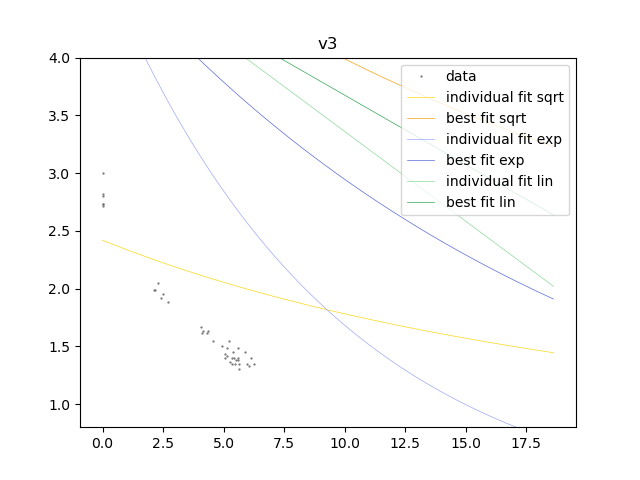
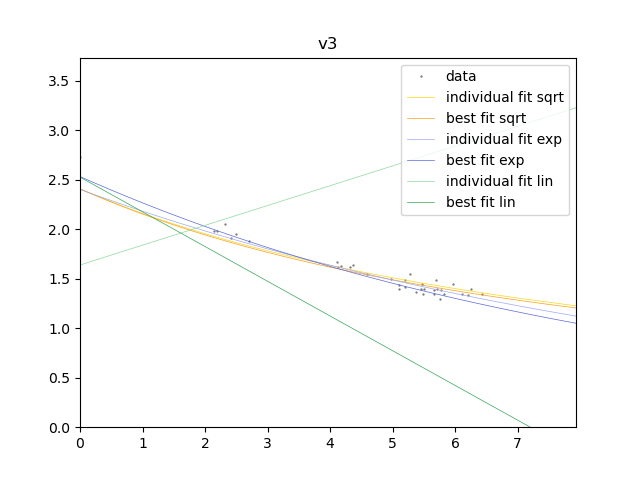
1.3 - fixed plots

diff --git a/main.py b/main.py
@@ -210,7 +210,7 @@ def fitting(data_series, ed_mode_func="exact", ed_estimate_func=40):
     # cumulative frozen time and cumulative unfrozen time are considered as separate variables
     if ed_mode_func == "exact":
         # exact means determined from data
-        element_durability = 2 * data_series.loc[:, "ed_estimate"]
+        element_durability = data_series.loc[:, "ed_estimate"]
     else:
         # estimate means given through knowledge about game (e.g. ed of rain)
         element_durability = ed_estimate_func
@@ -229,7 +229,8 @@ def fitting(data_series, ed_mode_func="exact", ed_estimate_func=40):
     data_y = data_series.loc[:, 't_frozen'].to_numpy()
     data_x = np.transpose(data_series.loc[:, 't_frozen_cumulative':'t_unfrozen_cumulative'].to_numpy())
     # fit to sqrt curve
-    p_sqrt_temp = curve_fit(temp_func_sqrt, data_x, data_y, p0=(-2, 4), bounds=([-5, 0.5], [-0.001, 20]))
+    p_sqrt_temp = curve_fit(temp_func_sqrt, data_x, data_y, p0=(-2, 4))
+    # bounds=([-5, 2.0], [-0.001, 15])
     parameters_sqrt_temp = p_sqrt_temp[0]
     var_sqrt_temp = np.diag(p_sqrt_temp[1])
     # fit to exp curve
@@ -258,7 +259,7 @@ for j in range(0, freeze_data_phaZ_raw.shape[0]):
     freeze_data_phaZ_raw.loc[j, "unfreeze time [s]"] = freeze_data_phaZ_raw.loc[j, "unfreeze time [s]"] / 60
 
 # do calculations
-filter_cutoff = 4.5
+filter_cutoff = 7
 
 freeze_data_ellimiku = freeze_time_calcs_from_raw(freeze_data_ellimiku_raw, array_mode="sequential", ed_mode="estimate",
                                                   element_durability=50)
@@ -274,18 +275,20 @@ freeze_data_v1_raw = pd.read_csv("Genshin_Freeze_Extension_v1.csv", header=1, sk
 freeze_data_v3_raw = pd.read_csv("Genshin_Freeze_Extension_v3.csv", header=1, skiprows=1, usecols=[0, 1])
 
 freeze_data_dfs = []
-ed_estimate = np.array([50, 50, 40, 80, 40, 50])
-ed_modes = ["estimate", "estimate", "exact", "exact", "estimate"]
+ed_estimate = np.array([50, 112.5, 40, 40, 50, 50, 50])
+ed_modes = ["estimate", "estimate", "exact", "exact", "estimate", "estimate"]
 
 j = 1
-number = 5
+number = 6
 for raw_data in (freeze_data_v1_raw, freeze_data_v3_raw):
     for k in range(0, raw_data.shape[0]):
         raw_data.iloc[k, 0] = timestamp_to_float(raw_data.iloc[k, 0])
     result = freeze_time_calcs_from_raw(raw_data, array_mode="alternating", ed_mode=ed_modes[j + 1])
-    freeze_data_dfs.append(result)
+    result_filtered = result[result['t_unfrozen_cumulative'] < filter_cutoff]
+    freeze_data_dfs.append(result_filtered)
     j += 1
 
+# isu data need some processing before I can do calcs with them - a bit messy here
 freeze_data_isu_raw = pd.read_csv("Freeze_extensions_isu.csv", header=1, skiprows=10, usecols=[2, 3, 4, 5])
 freeze_data_isu_raw_numpy = freeze_data_isu_raw.iloc[0:10, :].to_numpy()  # for reshaping in the next line
 freeze_data_isu_raw_numpy = np.reshape(freeze_data_isu_raw_numpy, (20, 2))  # get data in the "sequential" format
@@ -307,6 +310,16 @@ for i in range(0, 10):
                                               element_durability=50)
     freeze_data_isu.iloc[index:index + 2, :] = partial_data
 
+# aloy data recorded by phaZ
+freeze_data_aloy_raw = pd.read_csv("freeze_extension_aloy.csv", skiprows=1, usecols=[3, 4], nrows=76)
+freeze_data_aloy_raw.columns = ("freeze start time [s]", "unfreeze time [s]")
+for j in range(0, freeze_data_aloy_raw.shape[0]):
+    freeze_data_aloy_raw.loc[j, "freeze start time [s]"] = freeze_data_aloy_raw.loc[j, "freeze start time [s]"] / 60
+    freeze_data_aloy_raw.loc[j, "unfreeze time [s]"] = freeze_data_aloy_raw.loc[j, "unfreeze time [s]"] / 60
+
+freeze_data_aloy = freeze_time_calcs_from_raw(freeze_data_aloy_raw, array_mode="sequential", ed_mode="estimate",
+                                               element_durability=50)
+freeze_data_aloy_filtered = freeze_data_aloy[freeze_data_aloy['t_unfrozen_cumulative'] < filter_cutoff]
 
 ### fitting ###
 
@@ -318,8 +331,8 @@ parameters_lin = []
 var_lin = []
 
 j = 0
-labels = ("ellimiku", "phaZ", "v1", "v3", "isu")
-for series in (freeze_data_ellimiku_filtered, freeze_data_phaZ, *freeze_data_dfs, freeze_data_isu):
+labels = ("ellimiku", "phaZ - swirl", "v1", "v3", "isu", "phaZ - aloy")
+for series in (freeze_data_ellimiku_filtered, freeze_data_phaZ, *freeze_data_dfs, freeze_data_isu, freeze_data_aloy):
     fit_results = fitting(series, ed_mode_func=ed_modes[j], ed_estimate_func=ed_estimate[j])
     # [i][k]   i = 0 corresponds to sqrt
     #          i = 1 corresponds to exp
@@ -382,8 +395,10 @@ x_for_calcs = []
 array_params_t_decay = []
 array_vars_decay = []
 j = 0
-for data_series in (freeze_data_ellimiku_filtered, freeze_data_phaZ, *freeze_data_dfs, freeze_data_isu):
-    t_frozen_max = data_series.max().loc["t_frozen_cumulative"]
+for data_series in (freeze_data_ellimiku_filtered, freeze_data_phaZ, *freeze_data_dfs, freeze_data_isu,
+                    freeze_data_aloy):
+
+    t_frozen_max = 2 * data_series.max().loc["t_frozen_cumulative"]  # twice the max so we have large enough t_decay
     # find way to combine variables 't_frozen_cumulative' and 't_unfrozen cumulative' into one ('t_decay')
     # linregress of actual data
     params_lin_t_decay = linregress(data_series.loc[:, 't_frozen_cumulative'],
@@ -397,8 +412,8 @@ for data_series in (freeze_data_ellimiku_filtered, freeze_data_phaZ, *freeze_dat
     t_unfrozen.append(np.linspace(t_unfrozen_min, t_unfrozen_max, 100))
     # t_decay = t_frozen_cumulative + a * t_unfrozen_cumulative
     factor_a = parameters_sqrt[j][0]
-    t_decay_plot.append(np.linspace(0, t_frozen_max - factor_a * t_unfrozen_max, 100))
-    x_for_calcs.append(np.array([t_frozen, t_unfrozen]))
+    t_decay_plot.append(np.linspace(0, t_frozen_max + factor_a * t_unfrozen_max, 100))
+    x_for_calcs.append(np.array([t_frozen[-1], t_unfrozen[-1]]))
     j += 1
 
 y_ranges_fit_sqrt = []
@@ -409,28 +424,30 @@ y_ranges_fit_lin = []
 y_ranges_best_fit_lin = []
 
 for i in range(0, number):
+    # generate points to plot the functions
     y_ranges_fit_sqrt.append(sqrt_formula_for_optimization(x_for_calcs[i], *parameters_sqrt[i],
-                                                           d_frozen=ed_estimate[i])[0])
+                                                           d_frozen=ed_estimate[i]))
     y_ranges_best_fit_sqrt.append(sqrt_formula_for_optimization(x_for_calcs[i], *best_parameters_sqrt,
-                                                                d_frozen=ed_estimate[i])[0])
+                                                                d_frozen=ed_estimate[i]))
     y_ranges_fit_exp.append(exp_formula_for_optimization(x_for_calcs[i], *parameters_exp[i],
-                                                         d_frozen=ed_estimate[i])[0])
+                                                         d_frozen=ed_estimate[i]))
     y_ranges_best_fit_exp.append(exp_formula_for_optimization(x_for_calcs[i], *best_parameters_exp,
-                                                              d_frozen=ed_estimate[i])[0])
+                                                              d_frozen=ed_estimate[i]))
     y_ranges_fit_lin.append(lin_function_for_optimization(x_for_calcs[i], *parameters_lin[i],
-                                                          d_frozen=ed_estimate[i])[0])
+                                                          d_frozen=ed_estimate[i]))
     y_ranges_best_fit_lin.append(lin_function_for_optimization(x_for_calcs[i], *best_parameters_lin,
-                                                               d_frozen=ed_estimate[i])[0])
+                                                               d_frozen=ed_estimate[i]))
 
 # weighted avg for t_unfrozen_cumulative as a fcn of t_frozen_cumulative (ONLY for plotting)
-weights_t_unfrozen_cum = np.array([1 / array_vars_decay[j] for j in range(0, number)])
-slope_for_plot = np.average(np.array(array_params_t_decay[i]), axis=0, weights=weights_t_unfrozen_cum[i])
-
-# generate lines corresponding to original formula
-t_frozen_best = np.linspace(0, 100, 200)
-t_unfrozen_best = np.linspace(0, slope_for_plot * 100, 200)
+weights_t_unfrozen_slope = np.array([1 / array_vars_decay[j][0] for j in range(0, number)])
+# weights_t_unfrozen_intercept = np.array([1 / array_vars_decay[j] for j in range(0, number)])
+slopes = np.array([array_params_t_decay[i][1] for i in range(0, number)])
+slope_for_plot = np.average(slopes, axis=0, weights=weights_t_unfrozen_slope)
+# generate lines corresponding to formula
+t_frozen_best = np.linspace(0, 50, 100)
+t_unfrozen_best = np.linspace(0, slope_for_plot * 50, 100)
 a_plots = best_parameters_sqrt[0]
-x_range = t_unfrozen_best - a_plots * t_unfrozen_best
+x_range = t_frozen_best + a_plots * t_unfrozen_best
 # y_range = freeze_formula(x_range)  # y coordinate aka freeze time
 # y_range_aura = freeze_formula(x_range, d_frozen=40)  # with aura tax taken into account
 # y_range_2b_aura = freeze_formula(x_range, d_frozen=80)  # and with 2B and aura tax
@@ -439,8 +456,10 @@ y_range_sqrt_1A = sqrt_formula_for_optimization(np.array([t_frozen_best, t_unfro
 
 y_range_sqrt_1A_aura = sqrt_formula_for_optimization(np.array([t_frozen_best, t_unfrozen_best]), *best_parameters_sqrt,
                                                      d_frozen=40)
-# y_range_sqrt_2B_aura = sqrt_formula_for_optimization(np.array([t_frozen_best, t_unfrozen_best]), *best_parameters_sqrt,
-#                                                      d_frozen=80)
+y_range_sqrt_2B_aura = sqrt_formula_for_optimization(np.array([t_frozen_best, t_unfrozen_best]), *best_parameters_sqrt,
+                                                     d_frozen=80)
+y_range_sqrt_swirl_aura = sqrt_formula_for_optimization(np.array([t_frozen_best, t_unfrozen_best]),
+                                                        *best_parameters_sqrt, d_frozen=112.4)
 y_range_exp_1A = exp_formula_for_optimization(np.array([t_frozen_best, t_unfrozen_best]), *best_parameters_exp,
                                               d_frozen=50)
 y_range_exp_1A_aura = exp_formula_for_optimization(np.array([t_frozen_best, t_unfrozen_best]), *best_parameters_exp,
@@ -453,53 +472,65 @@ y_range_lin_1A_aura = lin_function_for_optimization(np.array([t_frozen_best, t_u
 
 ### Plots ###
 aura_arr = ["1A", "1A"]
-colors_arr = ["#A344A0", "#1AABC8", "#707070", "#000000", "#D1A2D0"]  # "#883EFF"
-fig, ax = plt.subplots(1, 1)
-ax.set_ylim((1, 5))
-ax.set_xlim((-0.1, 10.5))
-# ax.plot(x_range, y_range, label="Formula for 1A hydro", color="#707070", linewidth=1)
-# ax.plot(x_range, y_range_aura, label="Formula for 1A hydro with aura tax", color="#000000", linewidth=1)
-ax.plot(x_range, y_range_sqrt_1A_aura, label="Sqrt formula fit - 1A with aura tax", color="#FA9F16", linewidth=0.5)
-ax.plot(x_range, y_range_sqrt_1A, label="Sqrt formula fit - 1A w/o aura tax", color="#E4421E", linewidth=0.5)
-#ax.plot(x_range, y_range_exp_1A_aura, label="Exp formula fit - 1A with aura tax", color="#5968DA", linewidth=0.5)
-ax.plot(x_range, y_range_exp_1A, label="Exp formula fit - 1A w/o aura tax", color="#202C8A", linewidth=0.5)
-#ax.plot(x_range, y_range_lin_1A_aura, label="Linear formula fit - 1A with aura tax", color="#34A656", linewidth=0.5)
-ax.plot(x_range, y_range_lin_1A, label="Linear formula fit - 1A w/o aura tax", color="#27732D", linewidth=0.5)
+colors_arr = ["#4424D3", "#2CC259", "#707070", "#000000", "#2A96AB", "#C55EC3"]
+fig1, ax1 = plt.subplots(1, 1)
+fig2, ax2 = plt.subplots(1, 1)
+
+# plot functions
+# ax1
+ax1.plot(x_range, y_range_sqrt_1A, label="Sqrt formula fit - 1A w/o aura tax", color="#EF711A", linewidth=0.5)
+ax1.plot(x_range, y_range_exp_1A, label="Exp formula fit - 1A w/o aura tax", color="#202C8A", linewidth=0.5)
+ax1.plot(x_range, y_range_lin_1A, label="Linear formula fit - 1A w/o aura tax", color="#27732D", linewidth=0.5)
+# ax2
+ax2.plot(x_range, y_range_sqrt_1A_aura, label="Sqrt formula fit - 1A with aura tax", color="#FA9F16", linewidth=0.5)
+ax2.plot(x_range, y_range_sqrt_1A, label="Sqrt formula fit - 1A w/o aura tax", color="#EF711A", linewidth=0.5)
+ax2.plot(x_range, y_range_sqrt_swirl_aura, label="Sqrt formula fit - swirl tests", color="#E4421E", linewidth=0.5)
+
+# plot data
+for ax in (ax1, ax2):
+    ax.set_ylim((0, 5))
+    ax.set_xlim((-0.1, 10.5))
+    ax.plot(freeze_data_ellimiku_filtered['t_decay'], freeze_data_ellimiku_filtered['t_frozen'], linestyle="none",
+            marker=".", markersize=1.2,
+            label="ellimiku data - enemy in water", color=colors_arr[0])
+    ax.plot(freeze_data_phaZ['t_decay'], freeze_data_phaZ['t_frozen'], linestyle="none", marker=".", markersize=1.2,
+            label="phaZ data - swirl tests", color=colors_arr[1])
+    j = 0
+    for v in range(0, 2):
+        ax.plot(freeze_data_dfs[v]['t_decay'], freeze_data_dfs[v]['t_frozen'], linestyle="none", marker=".", markersize=1.2,
+                label="v{0} data - {1}".format(v, aura_arr[j]), color=colors_arr[j + 2])
+        j += 1
+    ax.plot(freeze_data_isu['t_decay'], freeze_data_isu['t_frozen'], linestyle="none",
+            marker=".", markersize=1.2,
+            label="isu data - enemy in water", color=colors_arr[4])
+
+    ax.plot(freeze_data_aloy['t_decay'], freeze_data_aloy['t_frozen'], linestyle="none", marker=".", markersize=1.2,
+            label="phaZ data - enemy in water", color=colors_arr[5])
+
+    ax.set_xlabel("t_decay")
+    ax.set_ylabel("time frozen")
+i = 0
+for figure in (fig1, fig2):
+    plt.figure(figure.number)
+    plt.legend(fontsize=8)
+    plt.title("Freeze time vs t_decay")
+    plt.savefig("t_frozen_vs_t_decay_{0}.png".format(i))
+    i += 1
 
 
-ax.plot(freeze_data_ellimiku_filtered['t_decay'], freeze_data_ellimiku_filtered['t_frozen'], linestyle="none",
-        marker=".", markersize=1.2,
-        label="ellimiku data - enemy in water", color=colors_arr[0])
-ax.plot(freeze_data_phaZ['t_decay'], freeze_data_phaZ['t_frozen'], linestyle="none", marker=".", markersize=1.2,
-        label="phaZ data - swirl tests", color=colors_arr[1])
-j = 0
-for v in range(0, 2):
-    ax.plot(freeze_data_dfs[v]['t_decay'], freeze_data_dfs[v]['t_frozen'], linestyle="none", marker=".", markersize=1.2,
-            label="v{0} data - {1}".format(v, aura_arr[j]), color=colors_arr[j + 2])
-    j += 1
-ax.plot(freeze_data_isu['t_decay'], freeze_data_isu['t_frozen'], linestyle="none",
-        marker=".", markersize=1.2,
-        label="isu data - enemy in water", color=colors_arr[4])
-
-for i in range(0, 4):
-    pass
-#     ax.plot(t_decay_plot, y_ranges_fit_sqrt[i], linewidth=1, label="fit sqrt {0}" .format(i))
-#     ax.plot(t_decay_plot, y_ranges_fit_exp[i], linewidth=1, label="fit exp {0}".format(i))
-ax.set_xlabel("t_decay")
-ax.set_ylabel("time frozen")
-plt.legend(fontsize=8)
-plt.title("Freeze time vs t_decay")
-plt.savefig("t_frozen_vs_t_decay.png")
 plt.show()
-plt.close(fig)
+plt.close(fig1)
+plt.close(fig2)
 
-data_series = (freeze_data_ellimiku_filtered, freeze_data_phaZ, *freeze_data_dfs, freeze_data_isu)
-labels = ("ellimiku", "phaZ", "v1", "v3", "isu")
+data_series_plot = (freeze_data_ellimiku_filtered, freeze_data_phaZ, *freeze_data_dfs, freeze_data_isu,
+                    freeze_data_aloy)
+labels = ("ellimiku", "phaZ_swirl", "v1", "v3", "isu", "phaZ_aloy")
 
 
 for k in range(0, number):
     fig, ax = plt.subplots(1, 1)
-    ax.plot(data_series[k]['t_decay'], data_series[k]['t_frozen'], linestyle="none", marker=".", markersize=1.2,
+    t_decay_data = data_series_plot[k]["t_frozen_cumulative"] + parameters_sqrt[k][0] * data_series_plot[k]["t_unfrozen_cumulative"]
+    ax.plot(t_decay_data, data_series_plot[k]['t_frozen'], linestyle="none", marker=".", markersize=1.2,
             label="data", color="#707070")
     ax.plot(t_decay_plot[k], y_ranges_fit_sqrt[k], linewidth=0.5, label="individual fit sqrt", color="#FAD816")
     ax.plot(t_decay_plot[k], y_ranges_best_fit_sqrt[k], linewidth=0.5, label="best fit sqrt", color="#FA9F16")
@@ -508,12 +539,47 @@ for k in range(0, number):
     ax.plot(t_decay_plot[k], y_ranges_fit_lin[k], linewidth=0.5, label="individual fit lin", color="#8ED89C")
     ax.plot(t_decay_plot[k], y_ranges_best_fit_lin[k], linewidth=0.5, label="best fit lin", color="#34A656")
     # set sensible y limits
-    ax.set_ylim(data_series[k].min().iloc[2] - 0.5, data_series[k].max().iloc[2] + 1)
+    ax.set_ylim(0, data_series_plot[k].max().iloc[2] + 1)
+    ax.set_xlim(0, t_decay_data.max() + 1.5)
     plt.legend(loc="upper right")
     plt.title(labels[k])
     plt.savefig("{0}.png".format(labels[k]))
     plt.show()
     plt.close()
+
+# for k in range(0, number):
+#     fig, ax = plt.subplots(1, 1)
+#     t_decay_data = data_series_plot[k]["t_frozen_cumulative"] + parameters_sqrt[k][0] * data_series_plot[k][
+#         "t_unfrozen_cumulative"]
+#     y_data = data_series_plot[k]['t_frozen']
+#     x_for_func = np.transpose(data_series_plot[k].loc[:, "t_frozen_cumulative":"t_unfrozen_cumulative"].to_numpy())
+#     ed = data_series_plot[k].loc[:, "ed_estimate"]
+#     y_sqrt_ind = sqrt_formula_for_optimization(x_for_func, *parameters_sqrt[k], d_frozen=ed)
+#     y_sqrt_best = sqrt_formula_for_optimization(x_for_func, *best_parameters_sqrt, d_frozen=ed)
+#
+#     ax.plot(t_decay_data, data_series_plot[k]['t_frozen'], linestyle="none", marker=".", markersize=1.2,
+#             label="data", color="#707070")
+#     ax.plot(t_decay_data, y_sqrt_ind, linestyle="None", marker=".", markersize=1.2, label="individual fit sqrt",
+#             color="#FAD816")
+#
+#     ax.plot(t_decay_data, y_sqrt_best, linestyle="None", marker=".", markersize=1.2, label="best fit sqrt",
+#             color="#FA9F16")
+#
+#     ax.plot(t_decay_plot[k], y_ranges_fit_sqrt[k], linewidth=0.5, color="#FAD816")
+#     ax.plot(t_decay_plot[k], y_ranges_best_fit_sqrt[k], linewidth=0.5, color="#FA9F16")
+#     # ax.plot(t_decay_plot[k], y_ranges_best_fit_sqrt[k], linewidth=0.5, label="best fit sqrt", color="#FA9F16")
+#     # ax.plot(t_decay_plot[k], y_ranges_fit_exp[k], linewidth=0.5, label="individual fit exp", color="#9EA8F7")
+#     # ax.plot(t_decay_plot[k], y_ranges_best_fit_exp[k], linewidth=0.5, label="best fit exp", color="#5968DA")
+#     # ax.plot(t_decay_plot[k], y_ranges_fit_lin[k], linewidth=0.5, label="individual fit lin", color="#8ED89C")
+#     # ax.plot(t_decay_plot[k], y_ranges_best_fit_lin[k], linewidth=0.5, label="best fit lin", color="#34A656")
+#     # set sensible y limits
+#     ax.set_ylim(0, data_series_plot[k].max().iloc[2] + 1)
+#     ax.set_xlim(0, t_decay_data.max() + 1.5)
+#     plt.legend(loc="upper right")
+#     plt.title(labels[k])
+#     plt.savefig("{0}_1.png".format(labels[k]))
+#     #plt.show()
+#     plt.close()
 
 
 ### Save data ###
